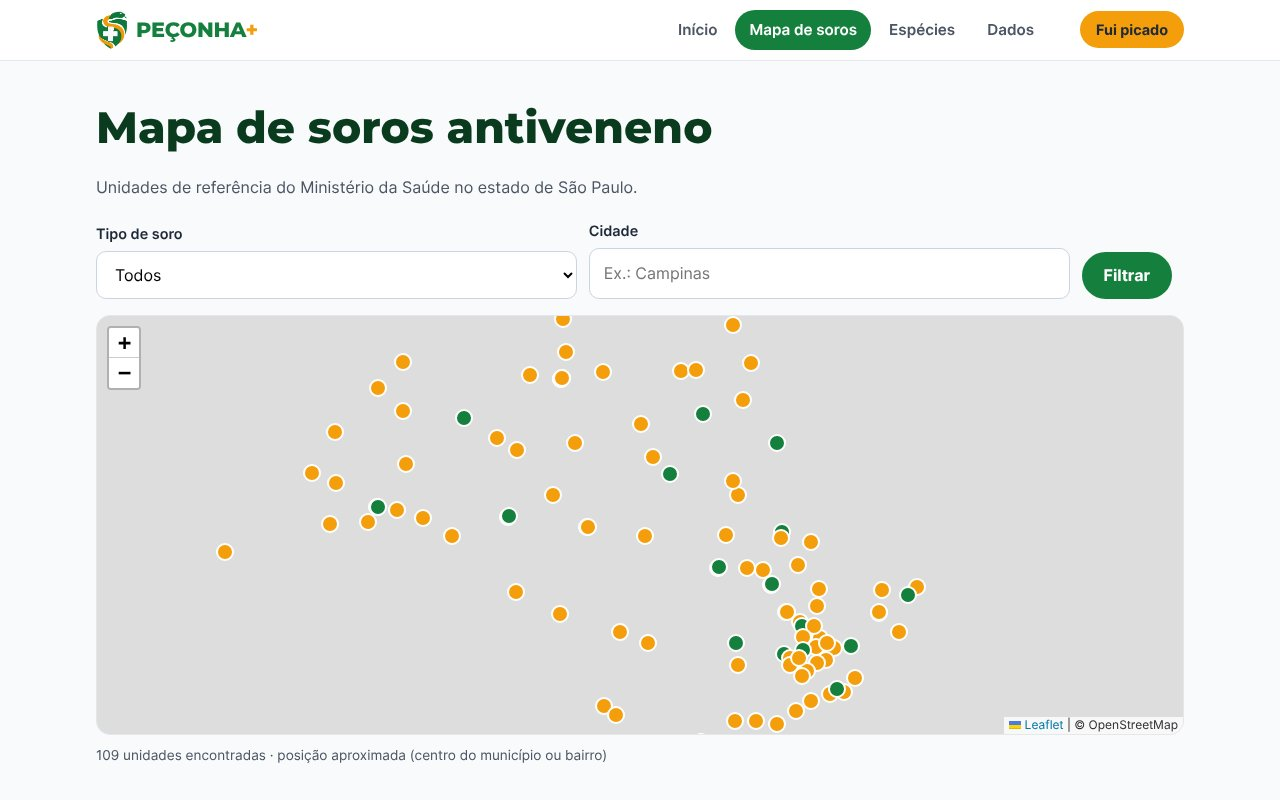
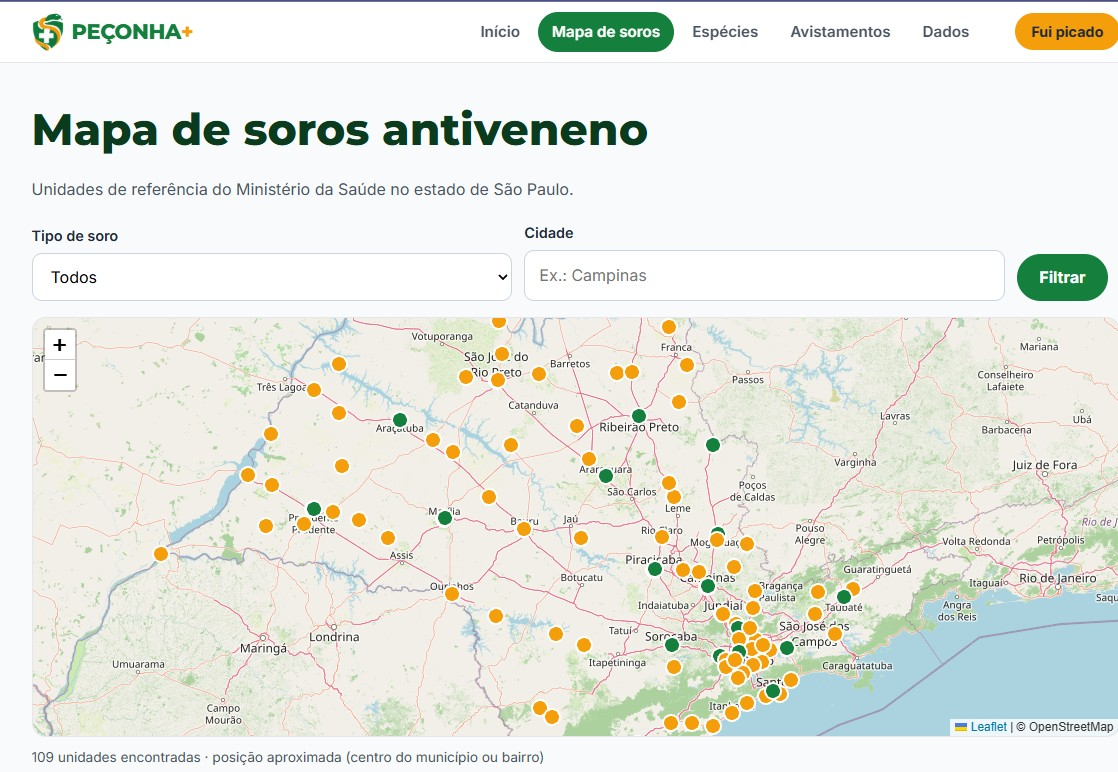
Atualiza README para a entrega final e adiciona prints

diff --git a/README.md b/README.md
@@ -26,16 +26,16 @@ Nesta versão, o PEÇONHA+ cobre **apenas o estado de São Paulo**, onde estão 
 
 O **PEÇONHA+** reúne em um Web App (celular e computador, sem instalar nada) o que a pessoa precisa nos primeiros minutos após um acidente:
 
-| Funcionalidade | Status no Checkpoint 2 |
+| Funcionalidade | Status |
 |---|---|
 | **Primeiros socorros por animal** (o que fazer, o que não fazer, sinais de alarme) | ✅ Implementado |
 | **Unidade mais próxima com o soro certo** (localização do celular ou cidade) | ✅ Implementado |
 | **Mapa de unidades com soro antiveneno** em SP, com filtro por soro e cidade | ✅ Implementado |
 | **Catálogo de espécies** | ✅ Implementado |
 | **Painel de dados** do Sinan | ✅ Implementado |
-| **Registro comunitário de avistamentos** | 🔜 Próxima etapa |
+| **Registro comunitário de avistamentos** | ✅ Implementado |
 
-## 📱 3. Protótipo Funcional (Checkpoint 2)
+## 📱 3. Projeto Funcionando
 
 ### Fluxo principal: "Fui picado, e agora?"
 
@@ -46,6 +46,12 @@ O **PEÇONHA+** reúne em um Web App (celular e computador, sem instalar nada) o
 | Início | Escolha do animal | Primeiros socorros | Atendimento |
 |---|---|---|---|
 | ![Início](docs/prints/01-inicio-mobile.jpg) | ![Animal](docs/prints/02-escolha-animal.jpg) | ![Primeiros socorros](docs/prints/03-primeiros-socorros.jpg) | ![Atendimento](docs/prints/04-atendimento.jpg) |
+
+### Registro comunitário de avistamentos
+
+Qualquer pessoa pode registrar que viu um animal peçonhento, informando o animal, a cidade, a data e uma observação. Os registros ficam salvos no banco de dados e aparecem na lista de últimos avistamentos, ajudando a alertar quem mora na mesma região.
+
+![Avistamentos](docs/prints/10-avistamentos.jpg)
 
 **Mapa de soros**
 ![Mapa](docs/prints/07-mapa.jpg)
@@ -129,6 +135,8 @@ unidade (id, nome, endereco, telefone, cnes, codigo_ibge, latitude, longitude)
 soro (codigo, nome, animal)
     │ 1:N
 especie (id, nome, cientifico, grupo, perigo, soro_codigo, descricao, habitat, sintomas, prevencao)
+
+municipio 1:N avistamento (id, grupo, codigo_ibge, data, bairro, observacao, criado_em)
 ```
 
 **Rotas**
@@ -140,6 +148,7 @@ especie (id, nome, cientifico, grupo, perigo, soro_codigo, descricao, habitat, s
 | `/emergencia/<animal>` | Primeiros socorros e busca de atendimento |
 | `/mapa?soro=&cidade=` | Mapa e lista de unidades com filtros |
 | `/especies` e `/especies/<id>` | Catálogo e detalhe das espécies |
+| `/avistamentos` | Formulário e lista de avistamentos da comunidade |
 | `/dados` | Painel de dados |
 | `/api/unidades/proximas?lat=&lon=&grupo=` | Retorna em JSON as 5 unidades mais próximas com o soro do animal (usada pelo JavaScript) |
 
@@ -177,11 +186,21 @@ A distância entre a pessoa e cada unidade é calculada em Python com a **fórmu
 
 ## 🔜 Próximos passos
 
-* Registro comunitário de avistamentos.
+* Mapa com os avistamentos registrados pela comunidade.
 * Lista completa de unidades do estado de SP.
 * Posição exata das unidades no mapa (a partir do endereço).
 
-## 👥 9. Integrantes do Grupo
+## 👥 9. Integrantes do Grupo e Contribuições
+
+| Integrante | Contribuição |
+|---|---|
+| Daniel dos Santos Bonilho Passiani | Desenvolvimento do sistema (Flask, banco de dados e páginas) e identidade visual |
+| Augusto Andrade Silva | Levantamento e conferência das bases de dados públicas |
+| Letícia Souza Pessoa | Conteúdo e revisão das orientações de primeiros socorros |
+| Pedro de Siqueira Torres | Pitch e apresentação do projeto |
+| Eduardo Prado da Silva | Documentação e próximos passos |
+
+**Perfis no GitHub:**
 
 * Eduardo Prado da Silva ([@PRADOZZZ](https://github.com/PRADOZZZ))
 * Daniel dos Santos Bonilho Passiani ([@danielpassiani](https://github.com/danielpassiani))
@@ -191,4 +210,4 @@ A distância entre a pessoa e cada unidade é calculada em Python com a **fórmu
 
 > ⚠ O PEÇONHA+ é um projeto acadêmico e **não substitui atendimento médico**. Em emergência, ligue **192 (SAMU)**.
 
-*Checkpoint 2 — FMU Tech Inovação 2026.2 · Análise e Desenvolvimento de Sistemas, 2º semestre.*
+*Entrega final — FMU Tech Inovação 2026.2 · Análise e Desenvolvimento de Sistemas, 2º semestre.*
